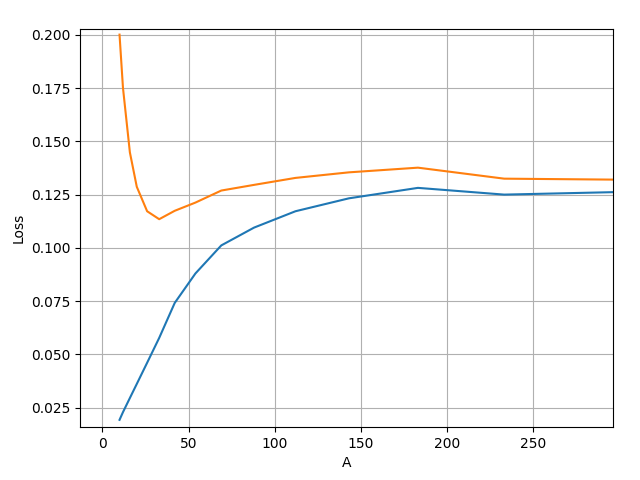
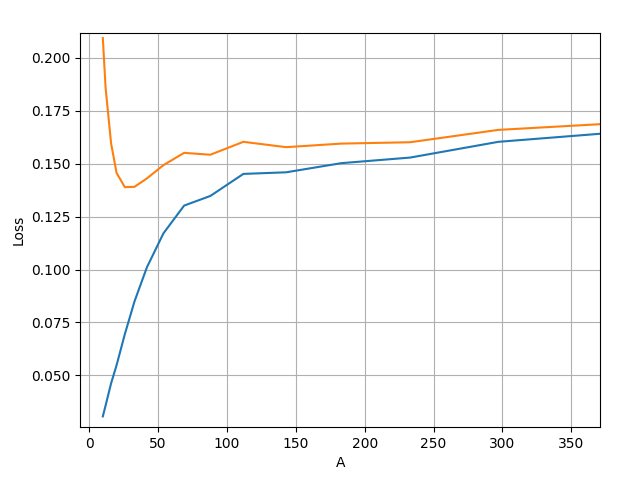
Resim ARB with new data

diff --git a/example_arb/2_simulate_A.py b/example_arb/2_simulate_A.py
@@ -7,7 +7,7 @@ if __name__ == '__main__':
         'data/arbusdt-1m.json.gz',
         A=[int(a) for a in logspace(log10(10), log10(1000), 20)],
         range_size=4,
-        fee=0.0045,
+        fee=0.0015,
         Texp=600
     )
 
